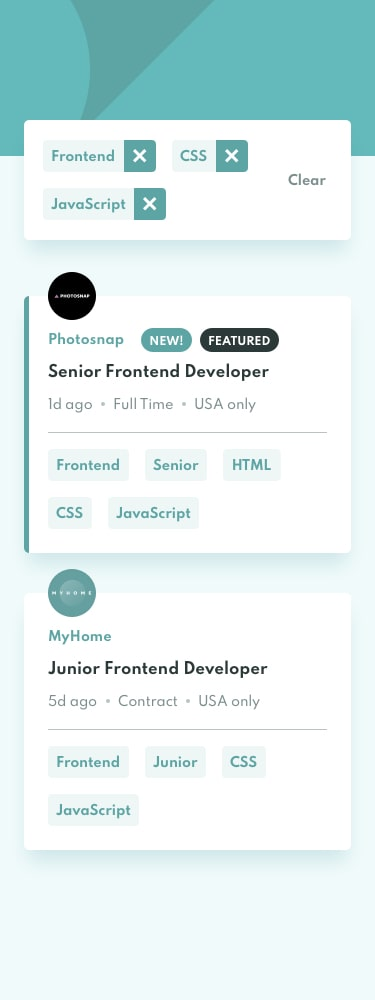
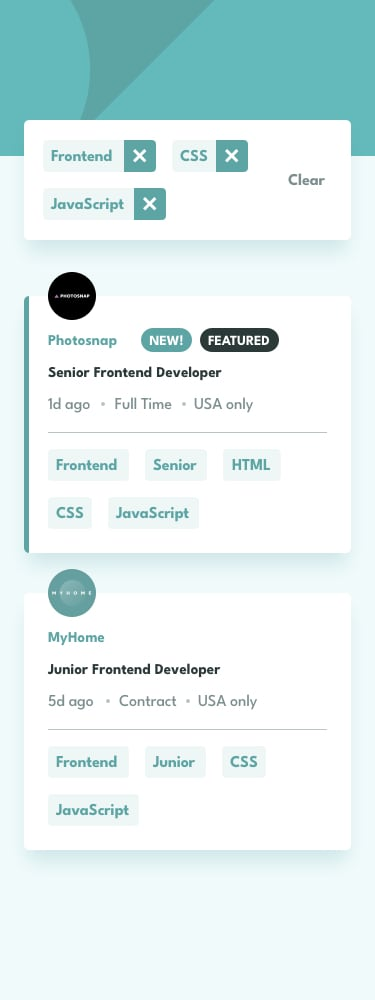
Update Spartan to League Spartan

diff --git a/style-guide.md b/style-guide.md
@@ -28,5 +28,5 @@ The designs were created to the following widths:
 
 ### Headings
 
-- Family: [Spartan](https://fonts.google.com/specimen/Spartan)
+- Family: [League Spartan](https://fonts.google.com/specimen/League+Spartan)
 - Weights: 500, 700
